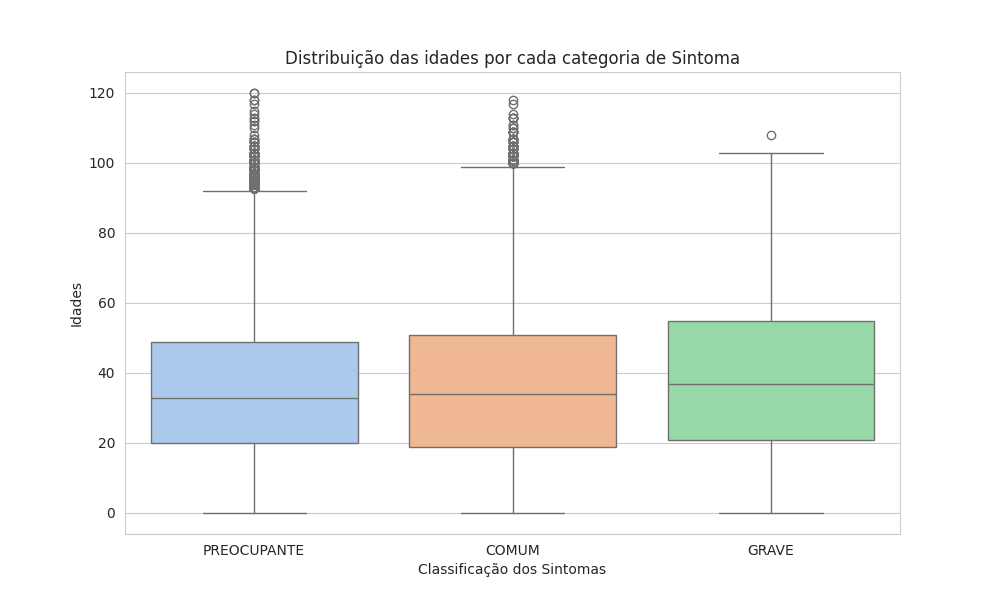
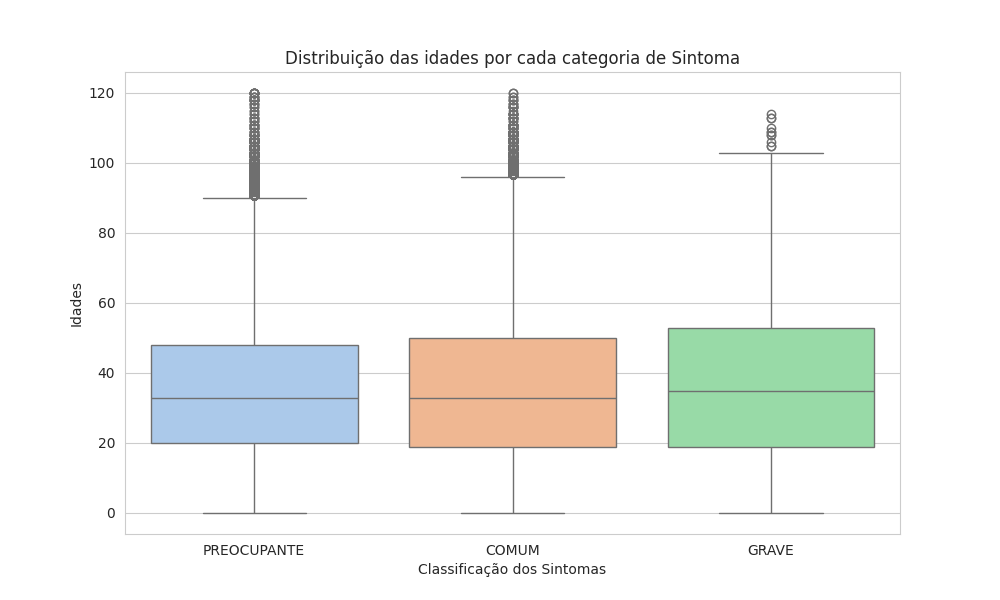
Fazendo a hipótese com o dataset total

diff --git a/src/hypothesis_3.py b/src/hypothesis_3.py
@@ -11,11 +11,11 @@ from src.utils.reading import processing_total_dataset
 
 
 @measure_function_execution
-def main(year):
+def main():
     # Vou ler o dataset por chunks
-    chunks = pd.read_csv(os.path.join(DATASET_LOCAL(), f'sinan_dengue_sample_{year}.csv'), low_memory=False, chunksize=CHUNKS_SIZE)
+    chunks = pd.read_csv(os.path.join(DATASET_LOCAL(), f'sinan_dengue_sample_total.csv'), low_memory=False, chunksize=CHUNKS_SIZE)
 
     hypothesis3(chunks)
 
 if __name__ == "__main__":
-    main(2024)
+    main()
